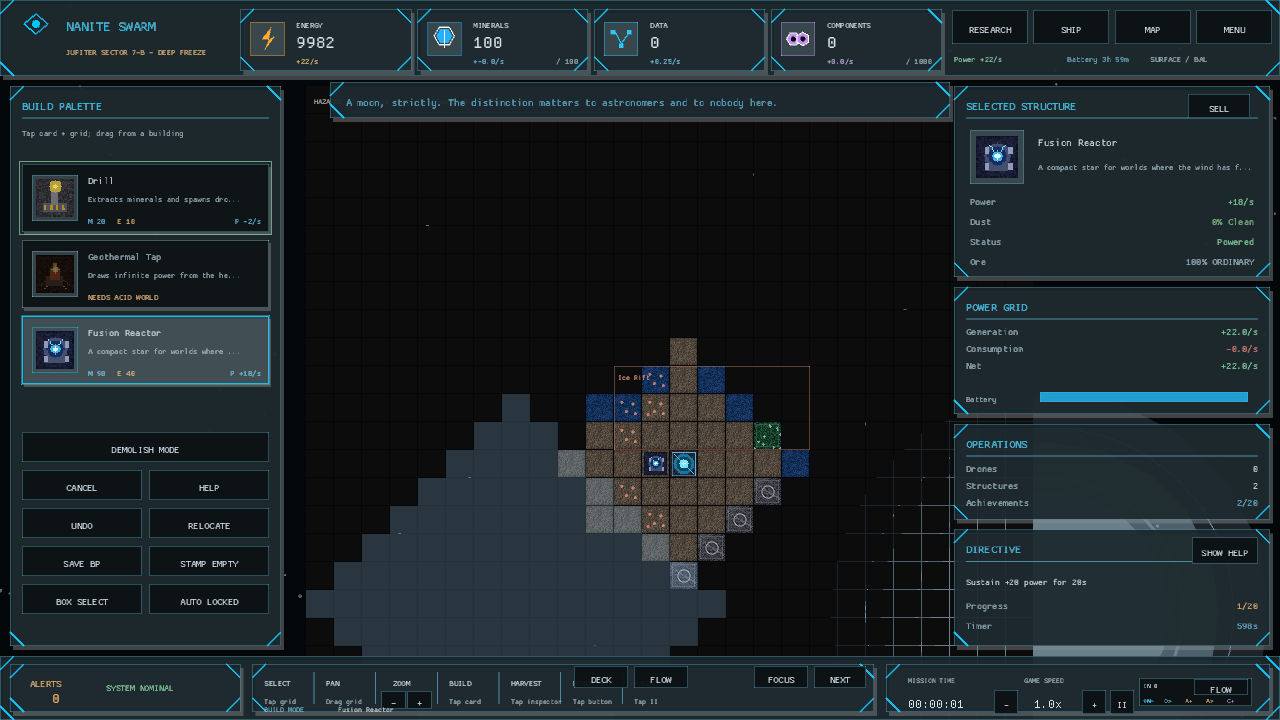
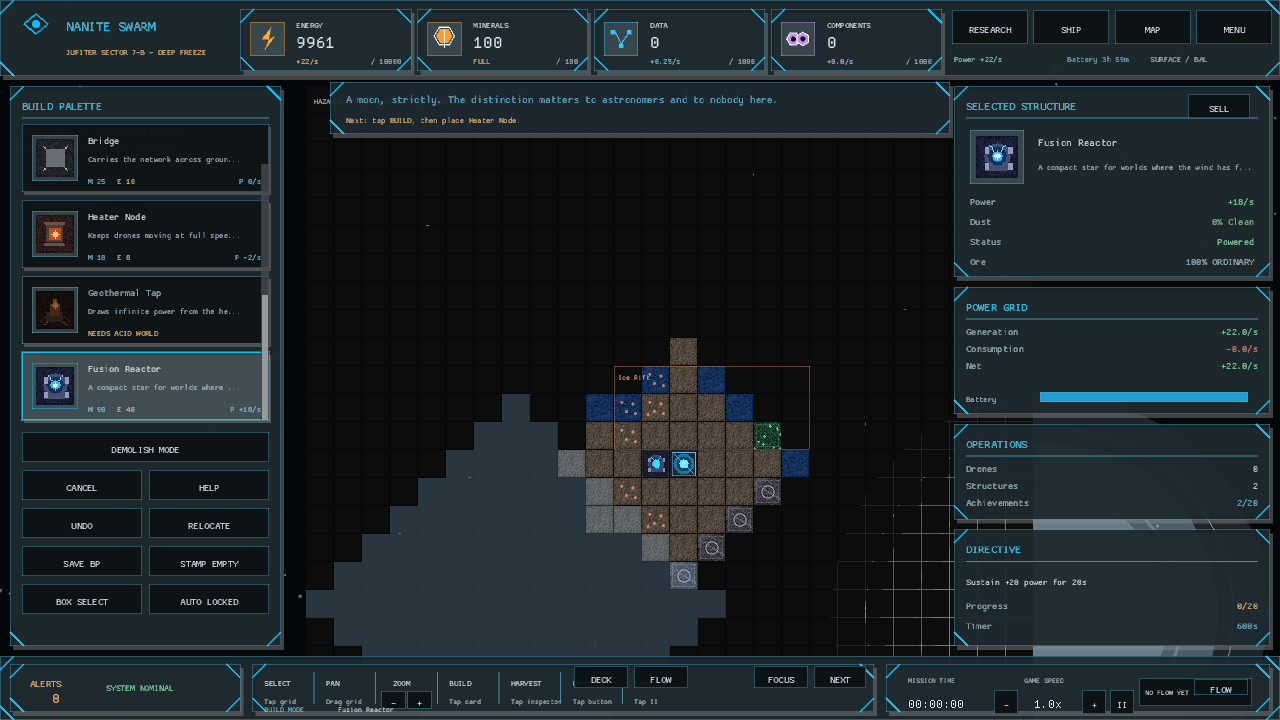
The swarm hardens its answer to every hostile sky (hazard guidance, GDD 4)
Power-route guidance stopped at the generator, leaving Venus without a visible corrosion response and Jupiter without a visible heater action. Continued the authored hostile-world handoff through Ceramic Plating on acid worlds and Heater Nodes on cold worlds. Corrected the Geothermal and Fusion capture fixtures to grant their real research prerequisites, then refreshed both showcase captures.

diff --git a/src/state/progress/arrival.rs b/src/state/progress/arrival.rs
@@ -41,6 +41,12 @@ impl PlanetState {
             }
         }
 
+        if let Some(condition) = condition {
+            if let Some(guidance) = self.hazard_countermeasure_guidance(condition) {
+                return Some(guidance);
+            }
+        }
+
         let constraints = &data.planet(self.planet_index).constraints;
         if let Some(id) = constraints
             .required_research
@@ -82,6 +88,44 @@ impl PlanetState {
             ));
         }
         None
+    }
+
+    fn hazard_countermeasure_guidance(&self, condition: &str) -> Option<String> {
+        match condition {
+            "acid" => {
+                let next_id = self.first_missing_research("ceramic_plating")?;
+                let name = self
+                    .data()
+                    .research
+                    .nodes
+                    .iter()
+                    .find(|node| node.id == next_id)
+                    .map(|node| node.name.as_str())
+                    .unwrap_or(next_id.as_str());
+                Some(format!("Next: tap RESEARCH for {name}."))
+            }
+            "cold" => {
+                let heater = BuildingType::HeaterNode;
+                if !self.is_building_researched(heater) {
+                    let research_id = self.data().building(heater.id()).unlocked_by.as_deref()?;
+                    let next_id = self.first_missing_research(research_id)?;
+                    let name = self
+                        .data()
+                        .research
+                        .nodes
+                        .iter()
+                        .find(|node| node.id == next_id)
+                        .map(|node| node.name.as_str())
+                        .unwrap_or(next_id.as_str());
+                    return Some(format!("Next: tap RESEARCH for {name}."));
+                }
+                self.grid
+                    .find_buildings(heater)
+                    .is_empty()
+                    .then(|| "Next: tap BUILD, then place Heater Node.".to_string())
+            }
+            _ => None,
+        }
     }
 
     fn first_missing_research(&self, id: &str) -> Option<String> {

diff --git a/src/state/progress/tests.rs b/src/state/progress/tests.rs
@@ -69,6 +69,50 @@ fn hostile_arrival_guidance_walks_the_power_route_prerequisites() {
 }
 
 #[test]
+fn acid_arrival_guidance_continues_to_the_corrosion_countermeasure() {
+    let mut state = PlanetState::new(1, 7, GameConfig::default());
+    for tech in ["power_grid", "geothermal_tapping"] {
+        state.research.unlocked_techs.push(tech.to_string());
+    }
+    let core = state.grid.find_core().unwrap();
+    let source = GridPos::new(core.x + 1, core.y);
+    let tile = state.grid.get_mut(source).unwrap();
+    tile.terrain = crate::engine::TerrainType::Empty;
+    tile.revealed = true;
+    assert!(state
+        .grid
+        .place_building(source, BuildingType::GeothermalTap));
+
+    assert_eq!(
+        state.arrival_guidance().as_deref(),
+        Some("Next: tap RESEARCH for Ceramic Plating.")
+    );
+}
+
+#[test]
+fn a_cold_world_keeps_heater_placement_visible_after_fusion_is_ready() {
+    let mut state = PlanetState::new(3, 7, GameConfig::default());
+    for tech in ["power_grid", "heater_nodes", "fusion_reactors"] {
+        state.research.unlocked_techs.push(tech.to_string());
+    }
+    state.unlock_building(BuildingType::HeaterNode);
+    state.unlock_building(BuildingType::FusionReactor);
+    let core = state.grid.find_core().unwrap();
+    let source = GridPos::new(core.x + 1, core.y);
+    let tile = state.grid.get_mut(source).unwrap();
+    tile.terrain = crate::engine::TerrainType::Empty;
+    tile.revealed = true;
+    assert!(state
+        .grid
+        .place_building(source, BuildingType::FusionReactor));
+
+    assert_eq!(
+        state.arrival_guidance().as_deref(),
+        Some("Next: tap BUILD, then place Heater Node.")
+    );
+}
+
+#[test]
 fn cold_arrival_guidance_starts_with_the_first_fusion_prerequisite() {
     let state = PlanetState::new(4, 7, GameConfig::default());
     assert_eq!(

diff --git a/src/capture_scenes/scenes/power.rs b/src/capture_scenes/scenes/power.rs
@@ -60,11 +60,15 @@ impl Game {
         self.campaign.travel_to(planet_index);
 
         let research = match source {
-            engine::BuildingType::GeothermalTap => "geothermal_tapping",
-            engine::BuildingType::FusionReactor => "fusion_reactors",
+            engine::BuildingType::GeothermalTap => ["power_grid", "geothermal_tapping"].as_slice(),
+            engine::BuildingType::FusionReactor => {
+                ["power_grid", "heater_nodes", "fusion_reactors"].as_slice()
+            }
             _ => return,
         };
-        self.research_state.unlocked.push(research.to_string());
+        self.research_state
+            .unlocked
+            .extend(research.iter().map(|id| (*id).to_string()));
         self.sync_research_to_planet();
 
         let planet = self.campaign.current_mut();

diff --git a/README.md b/README.md
@@ -17,6 +17,9 @@ The swarm is powerful, but every expansion changes the terrain, stresses the gri
 - Hostile arrivals name the next visible RESEARCH or BUILD control for their
   authored power route in the landing banner and build palette, following any
   research prerequisites instead of leaving the dossier's warning behind.
+- After the power route is standing, the same handoff continues to the
+  world's hazard response: Ceramic Plating on acid worlds and Heater Nodes on
+  cold worlds.
 - Completing the opening lesson points to the visible SHIP control for the
   Seed Ship yard, then MAP for choosing the next world.
 - Connect structures through conduits and power networks.
